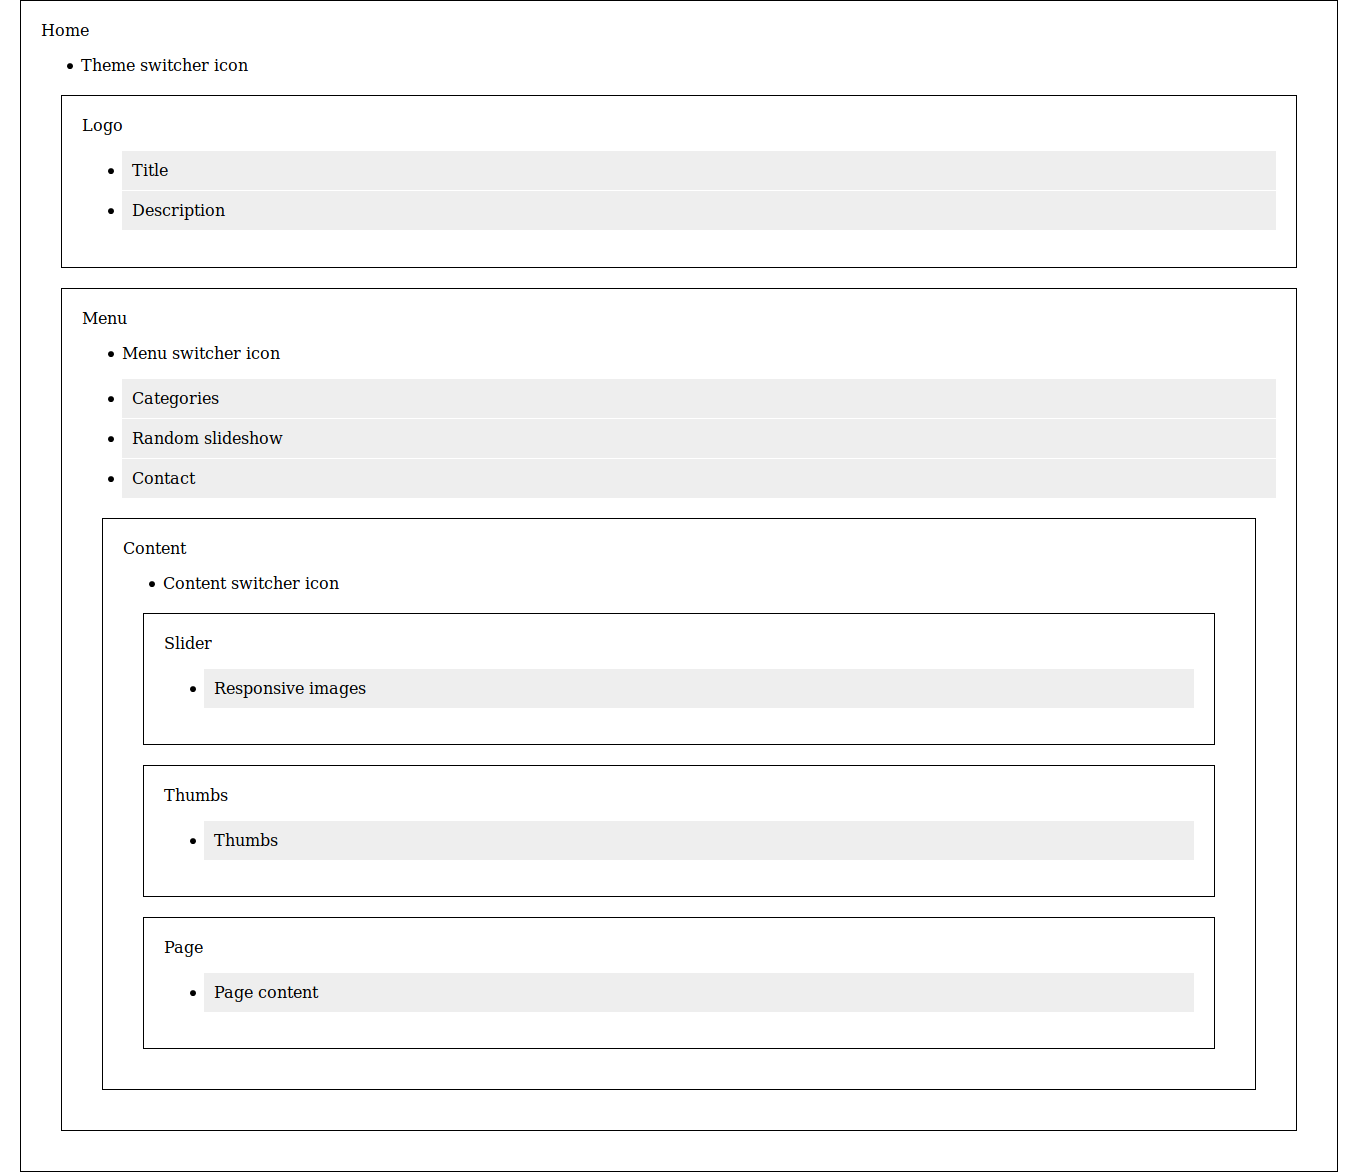
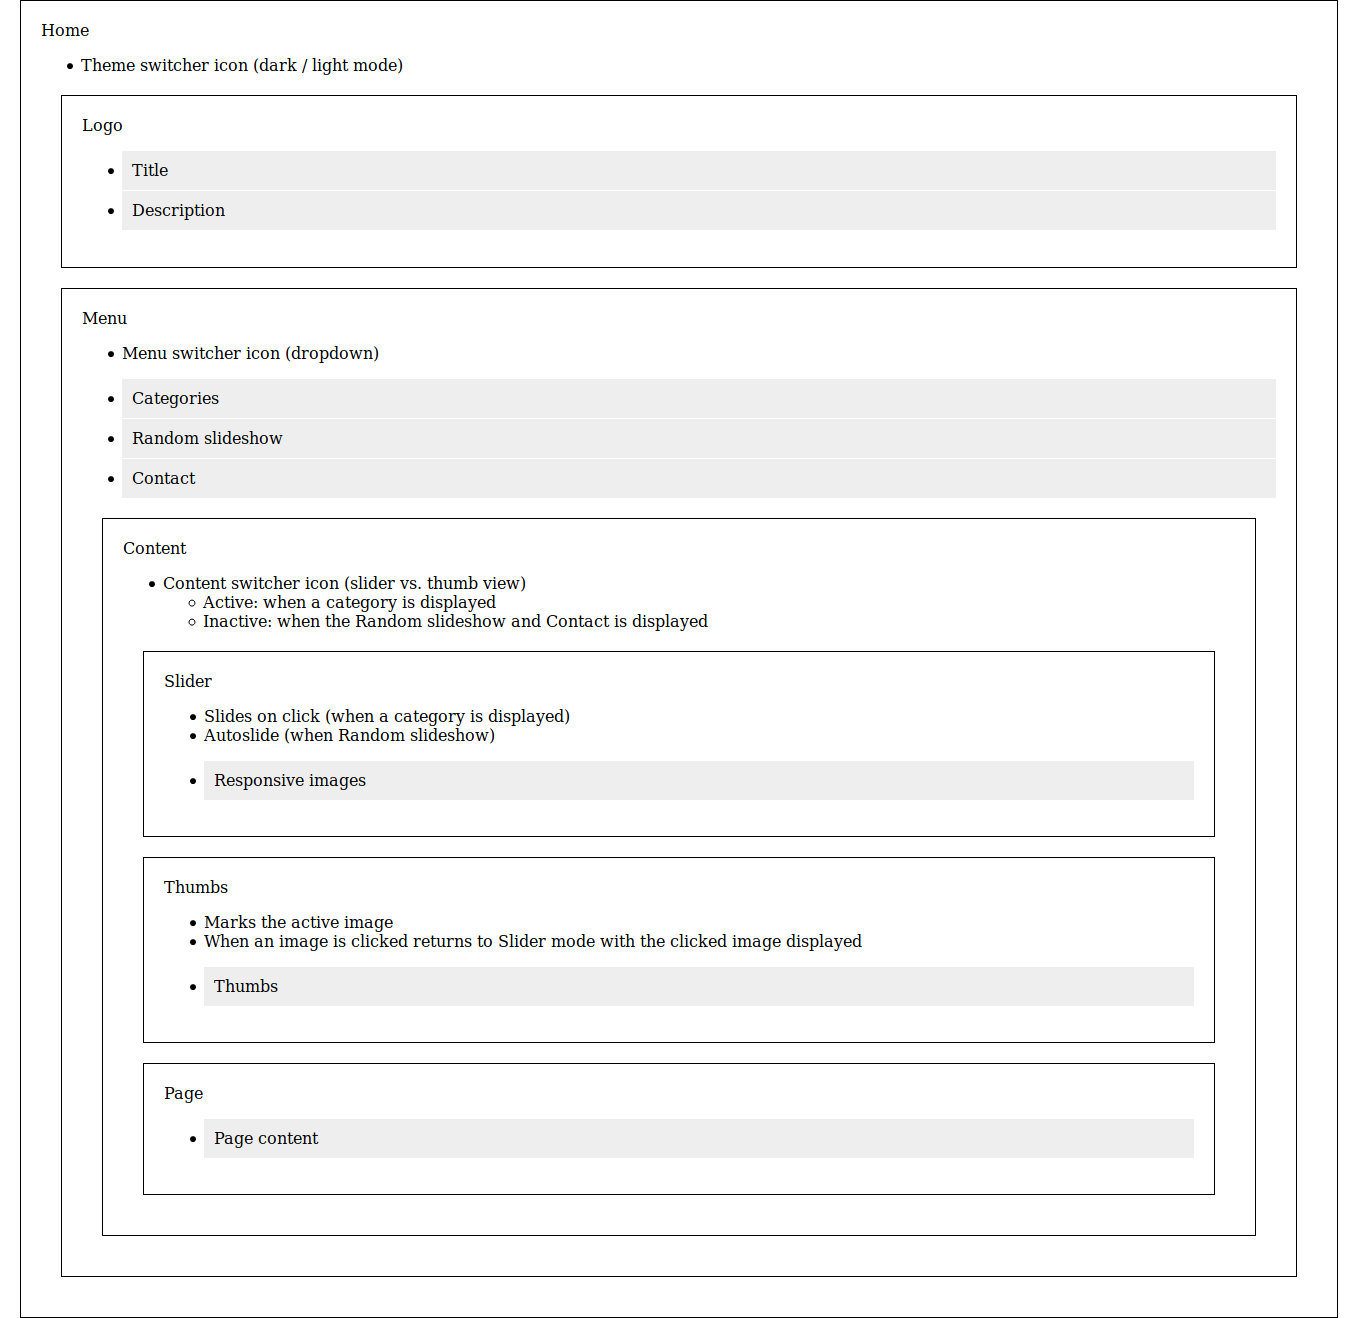
Working on the mockups

diff --git a/react-src/src/components/Content/Content.js b/react-src/src/components/Content/Content.js
@@ -32,13 +32,17 @@ const Content = props => {
   /**
    * Displays a content switcher icon
    */
-  const contentSwitcherIcon = "Content switcher icon";
+  const contentSwitcherIcon = "Content switcher icon (slider vs. thumb view)";
 
   return (
     <Container className="Content">
       Content
       <ul>
         <li>{contentSwitcherIcon}</li>
+        <ul>
+          <li>Active: when a category is displayed</li>
+          <li>Inactive: when the Random slideshow and Contact is displayed</li>
+        </ul>
       </ul>
       <Slider />
       <Thumbs />

diff --git a/react-src/src/components/Thumbs/Thumbs.js b/react-src/src/components/Thumbs/Thumbs.js
@@ -40,6 +40,13 @@ const Thumbs = props => {
   return (
     <Container className="Thumbs">
       Thumbs
+      <ul>
+        <li>Marks the active image</li>
+        <li>
+          When an image is clicked returns to Slider mode with the clicked image
+          displayed
+        </li>
+      </ul>
       <ul class="data">
         <li>{thumbs}</li>
       </ul>

diff --git a/react-src/src/components/Slider/Slider.js b/react-src/src/components/Slider/Slider.js
@@ -40,6 +40,10 @@ const Slider = props => {
   return (
     <Container className="Slider">
       Slider
+      <ul>
+        <li>Slides on click (when a category is displayed)</li>
+        <li>Autoslide (when Random slideshow)</li>
+      </ul>
       <ul class="data">
         <li>{responsiveImages}</li>
       </ul>

diff --git a/react-src/src/components/Home/Home.js b/react-src/src/components/Home/Home.js
@@ -37,7 +37,7 @@ const Home = props => {
   /**
    * Displays a theme switcher icon
    */
-  const themeSwitcherIcon = "Theme switcher icon";
+  const themeSwitcherIcon = "Theme switcher icon (dark / light mode)";
 
   return (
     <Container className="Home">

diff --git a/react-src/src/components/Menu/Menu.js b/react-src/src/components/Menu/Menu.js
@@ -43,7 +43,7 @@ const Menu = props => {
   /**
    * Displays a menu switcher icon
    */
-  const menuSwitcherIcon = "Menu switcher icon";
+  const menuSwitcherIcon = "Menu switcher icon (dropdown)";
 
   return (
     <Container className="Menu">

diff --git a/index.php b/index.php
@@ -49,5 +49,5 @@
         To begin the development, run `npm run wpstart` or `yarn wpstart`.
         To create a production bundle, use `npm run wpbuild` or `yarn wpbuild`.
     -->
-    <script src="/react-wp/wp-content/themes/inu-v2-b/static/js/runtime~main.ad097248.js"></script><script src="/react-wp/wp-content/themes/inu-v2-b/static/js/1.62165fc4.chunk.js"></script><script src="/react-wp/wp-content/themes/inu-v2-b/static/js/main.c9dd9af5.chunk.js"></script></body>
+    <script src="/react-wp/wp-content/themes/inu-v2-b/static/js/runtime~main.ad097248.js"></script><script src="/react-wp/wp-content/themes/inu-v2-b/static/js/0.baafdd8a.chunk.js"></script><script src="/react-wp/wp-content/themes/inu-v2-b/static/js/main.8033cecf.chunk.js"></script></body>
 </html>

diff --git a/README.md b/README.md
@@ -4,9 +4,11 @@ A photo portfolio theme with React, WPGraphQL and Create React WPTheme.
 
 ## Development process
 
+Based on [Thinking in React](https://reactjs.org/docs/thinking-in-react.html).
+
 ### Mocks - v0.0.1
 
-1. Mocking up the component structure
+1. Mocking up the component structure and the functionality
 
 ![First iteration](./react-src/docs/mocks-1.png)
 
